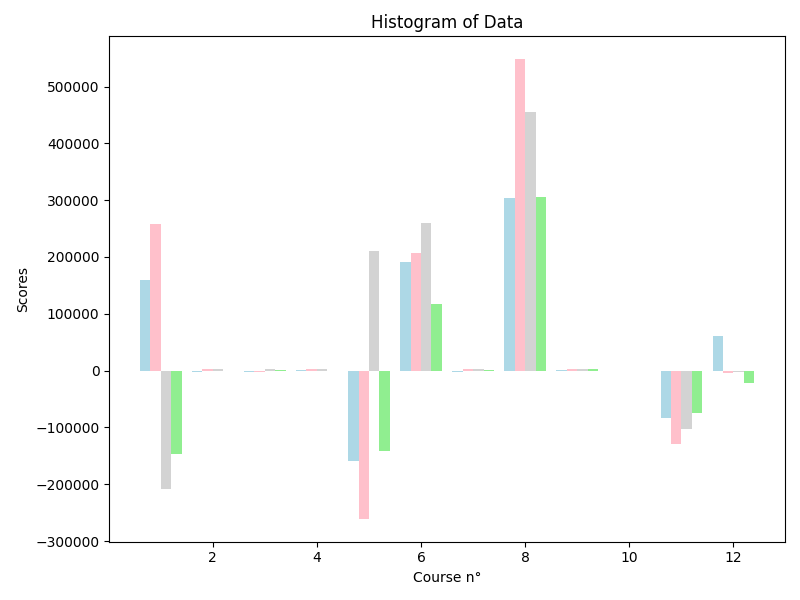
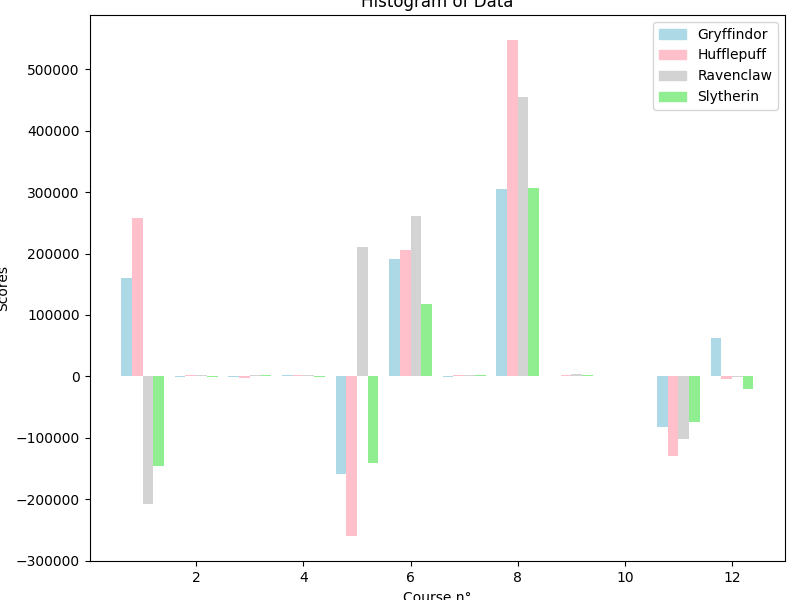
custom histogram legend

diff --git a/histogram.py b/histogram.py
@@ -1,13 +1,14 @@
 # scores / standard deviation / range
 from pandas import DataFrame, concat
 from matplotlib.pyplot import savefig, tight_layout, subplots, \
-                              show, hist, xlabel, ylabel, title, bar, ylim
+                              show, hist, xlabel, ylabel, title, bar, ylim, legend
 from collections import Counter
 from numpy import arange
+from matplotlib.patches import Rectangle
 
 
 def get_bars(df: DataFrame) -> any:
-    houses = ["Gryffindor", "Ravenclaw", "Hufflepuff", "Slytherin"]
+    houses = ["Gryffindor", "Hufflepuff", "Ravenclaw", "Slytherin"]
 
     dist_to_mean = []
     ranges = []
@@ -40,6 +41,8 @@ def get_bars(df: DataFrame) -> any:
     colors = ["lightblue", "pink", "lightgray", "lightgreen"]
     size = [-1.5, -0.5, 0.5, 1.5]
 
+    handles = [Rectangle((0, 0), 1, 1, color=color) for color in colors]
+
     for i, house in enumerate(houses):
         values = [float(x) for x in grouped.iloc[i][0:].values[1:]]
 
@@ -49,12 +52,13 @@ def get_bars(df: DataFrame) -> any:
             # X-axis positions for each group of bars
             ax.bar(x[j] + size[i] * bar_width, metric, width=bar_width, label=house, color=colors[i])
 
-        tight_layout()
-        # ylim(-1000, 1000)
-        xlabel("Course n°")
-        ylabel("Scores")
-        title("Histogram of Data")
-        savefig("histogram")
+    tight_layout()
+    legend(handles=handles, labels=houses)
+    # ylim(-1000, 1000)
+    xlabel("Course n°")
+    ylabel("Scores")
+    title("Histogram of Data")
+    savefig("histogram")
 
 
 # def get_distance_to_mean(largs: list) -> any:
